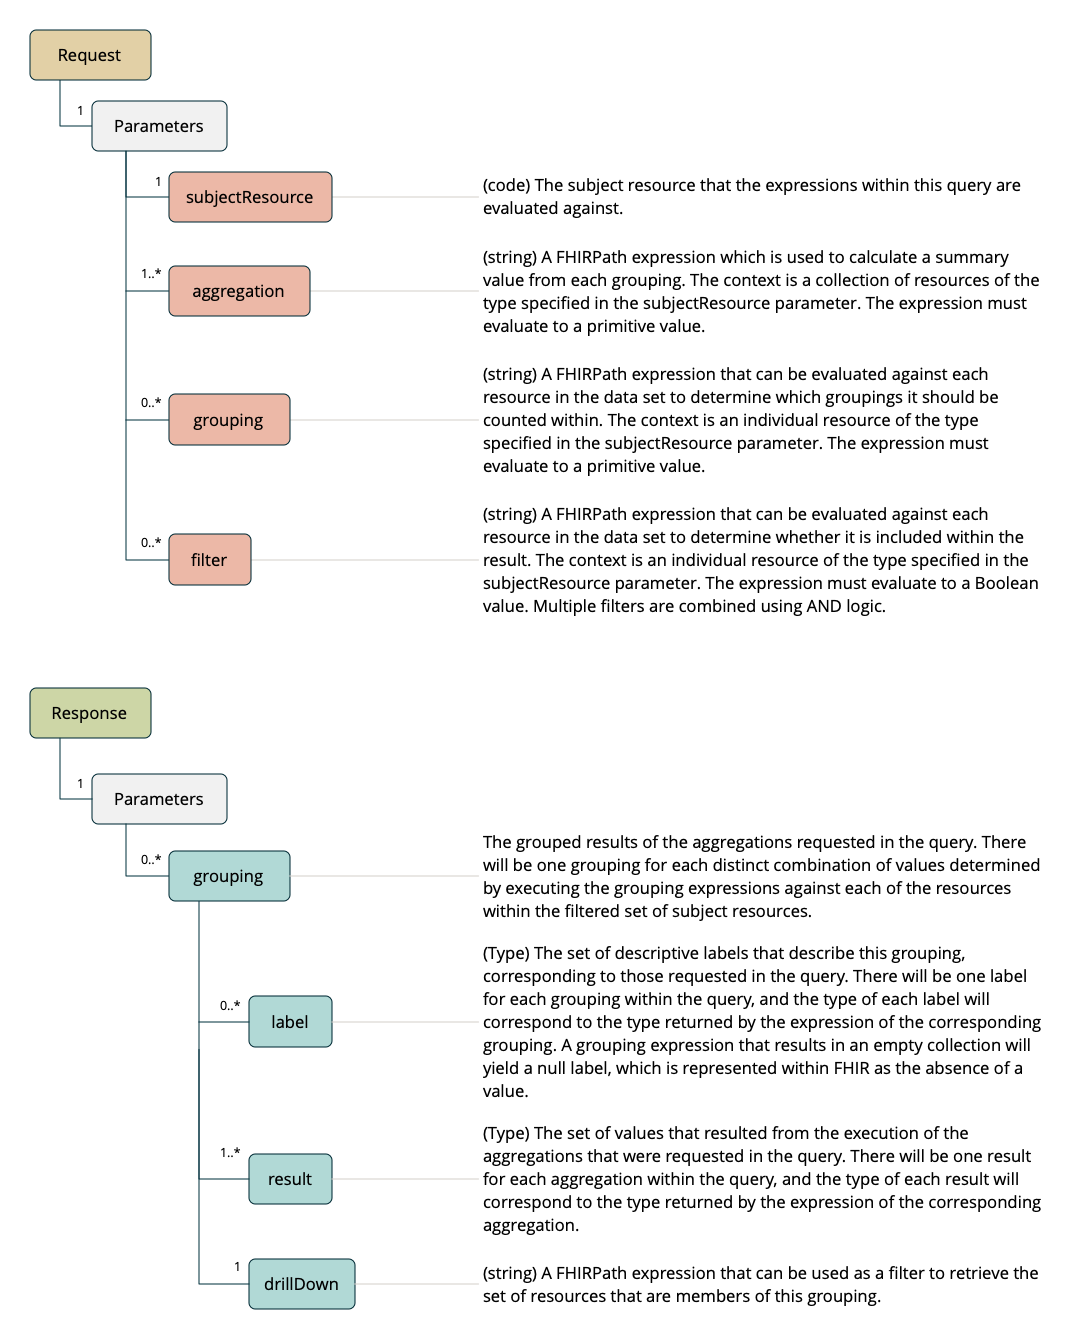
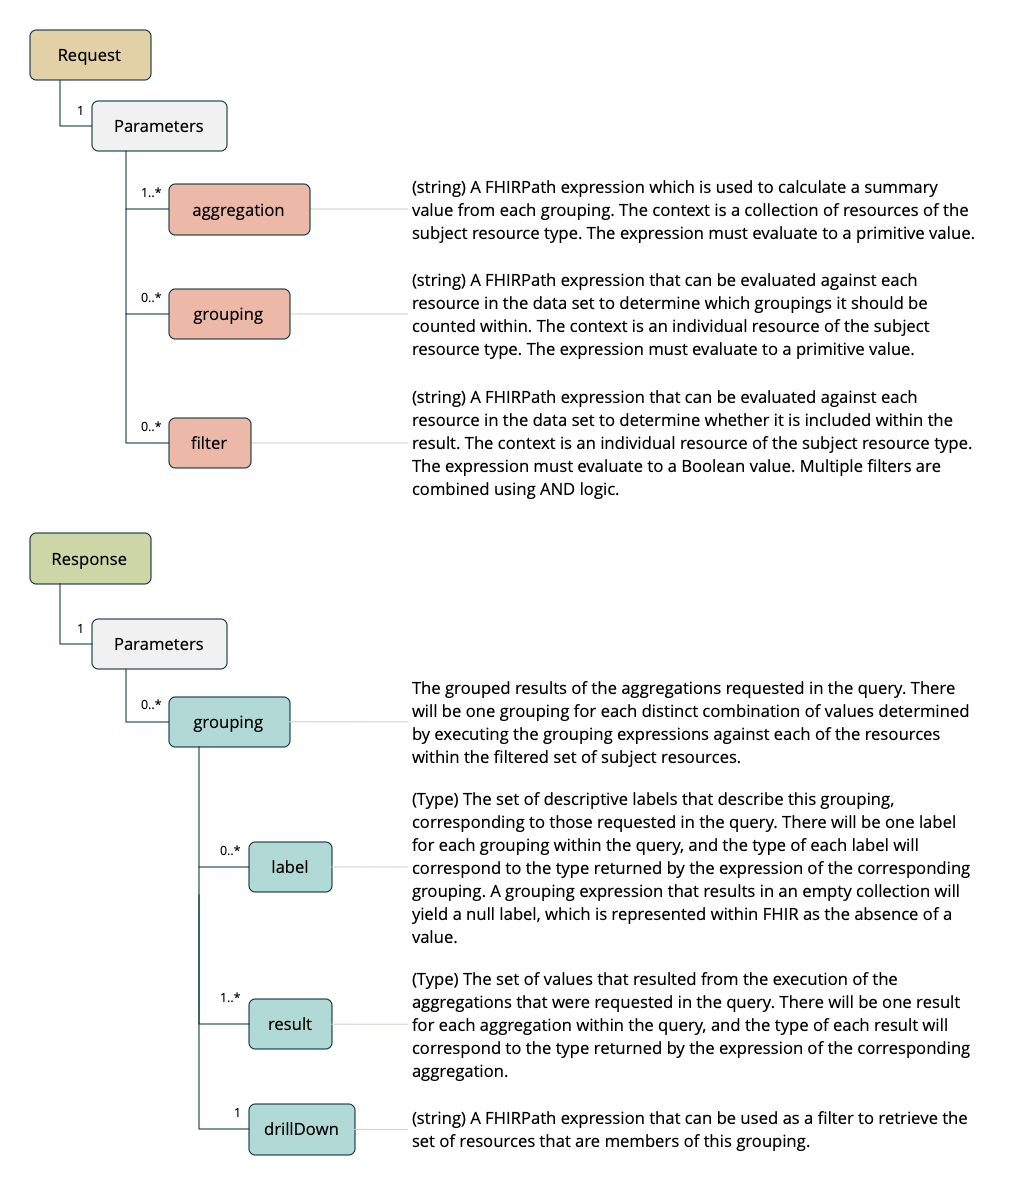
Fix aggregate and search documentation

diff --git a/fhir-server/src/main/java/au/csiro/pathling/aggregate/AggregateProvider.java b/fhir-server/src/main/java/au/csiro/pathling/aggregate/AggregateProvider.java
@@ -24,9 +24,10 @@ import org.springframework.context.annotation.Scope;
 import org.springframework.stereotype.Component;
 
 /**
- * HAPI plain provider that provides an entry point for the "aggregate" system-wide operation.
+ * HAPI resource provider that provides an entry point for the "aggregate" type-level operation.
  *
  * @author John Grimes
+ * @see <a href="https://pathling.csiro.au/docs/aggregate.html">Aggregate</a>
  */
 @Component
 @Scope("prototype")

diff --git a/site/docs/aggregate.md b/site/docs/aggregate.md
@@ -18,7 +18,11 @@ This operation allows a user to perform aggregate queries on data held within
 the FHIR server by specifying aggregation, grouping and filter expressions.
 
 ```
-POST [FHIR endpoint]/$aggregate
+GET [FHIR endpoint]/[resource type]/$aggregate?[parameters...]
+```
+
+```
+POST [FHIR endpoint]/[resource type]/$aggregate
 ```
 
 <img src="/images/aggregate.png" 
@@ -27,28 +31,24 @@ POST [FHIR endpoint]/$aggregate
 
 ## Request
 
-The request for the `$aggregate` operation is a
-[Parameters](https://hl7.org/fhir/R4/parameters.html) resource containing the
-following parameters:
+The request for the `$aggregate` operation is either a GET request, or a POST 
+request containing a [Parameters](https://hl7.org/fhir/R4/parameters.html) 
+resource. The following parameters are supported:
 
-- `subjectResource [1..1]` - (code) The subject resource that the expressions
-  within this query are evaluated against. The code must be a member of
-  [http://hl7.org/fhir/ValueSet/resource-types](https://hl7.org/fhir/ValueSet/resource-types).
 - `aggregation [1..*]` - (string) A FHIRPath expression which is used to 
   calculate a summary value from each grouping. The context is a collection of 
-  resources of the type specified in the subjectResource parameter. 
-  The expression must evaluate to a primitive value.
+  resources of the subject resource type. The expression must evaluate to a 
+  primitive value.
 - `grouping [0..*]` - (string) A FHIRPath expression that can be evaluated 
   against each resource in the data set to determine which groupings it should 
-  be counted within. The context is an individual resource of the type specified 
-  in the subjectResource parameter. The expression must evaluate to a primitive 
-  value.
+  be counted within. The context is an individual resource of the subject 
+  resource type. The expression must evaluate to a primitive value.
 - `filter [0..*]` - (string) A FHIRPath expression that can be evaluated against 
   each resource in the data set to determine whether it is included within the 
-  result. The context is an individual resource of the type specified in the 
-  subjectResource parameter. The expression must evaluate to a singular Boolean 
-  value. Multiple filters are combined using AND logic.
-
+  result. The context is an individual resource of the subject resource type. 
+  The expression must evaluate to a Boolean value. Multiple filters are combined 
+  using AND logic.
+  
 ## Response
 
 The response for the `$aggregate` operation is a

diff --git a/site/docs/search.md b/site/docs/search.md
@@ -50,8 +50,8 @@ The named query is invoked using a parameter of `_query` with a value of
 `fhirPath`.
 
 Parameters are passed in the query portion of the URL for GET requests, and can
-be passed either in the URL or in a `application/x-www-form-urlencoded` for POST
-requests.
+be passed either in the URL or in a `application/x-www-form-urlencoded` body for 
+POST requests.
 
 ## Response
 
